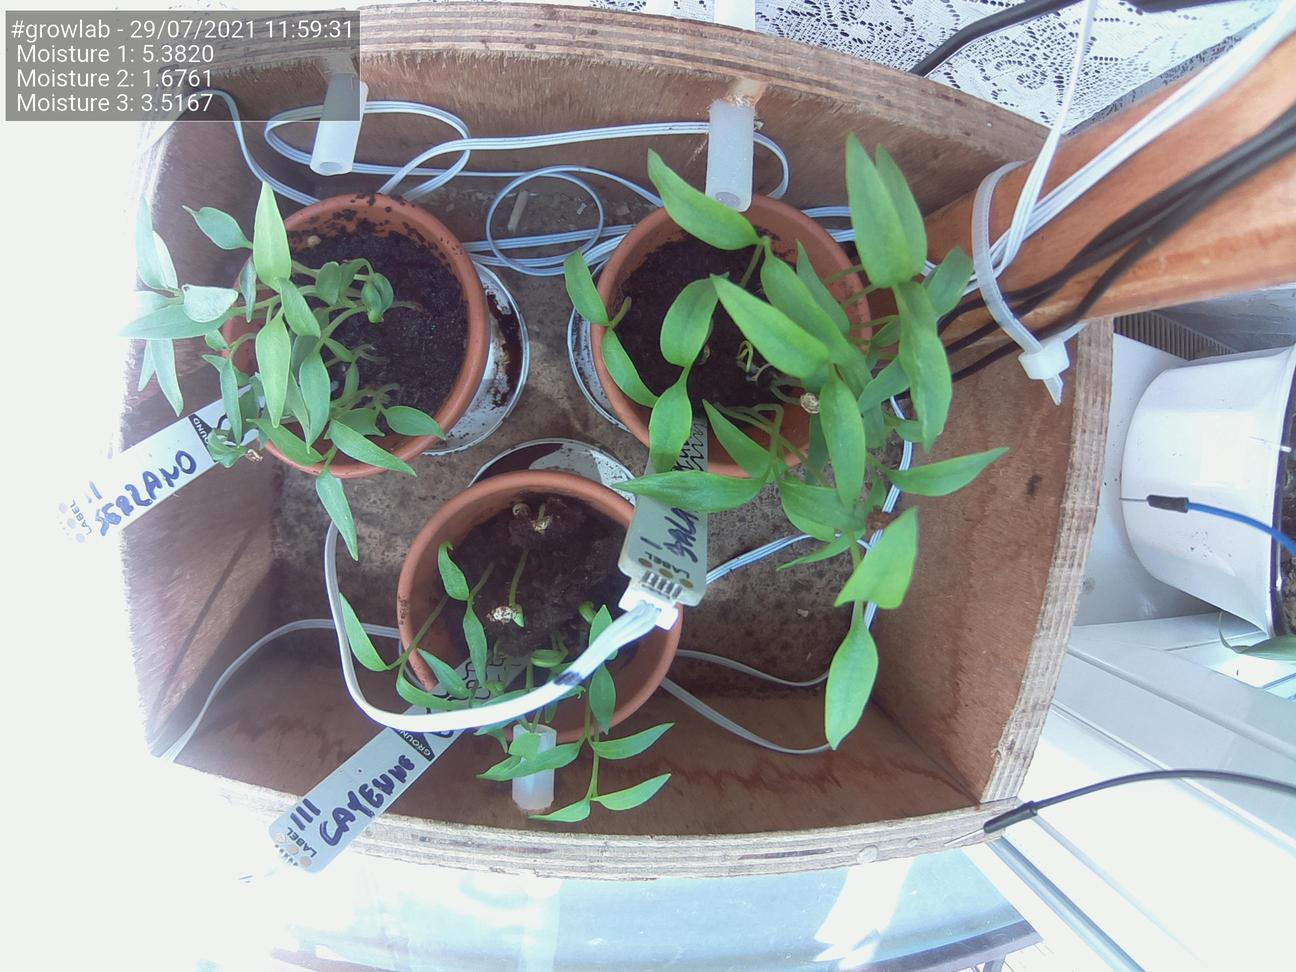
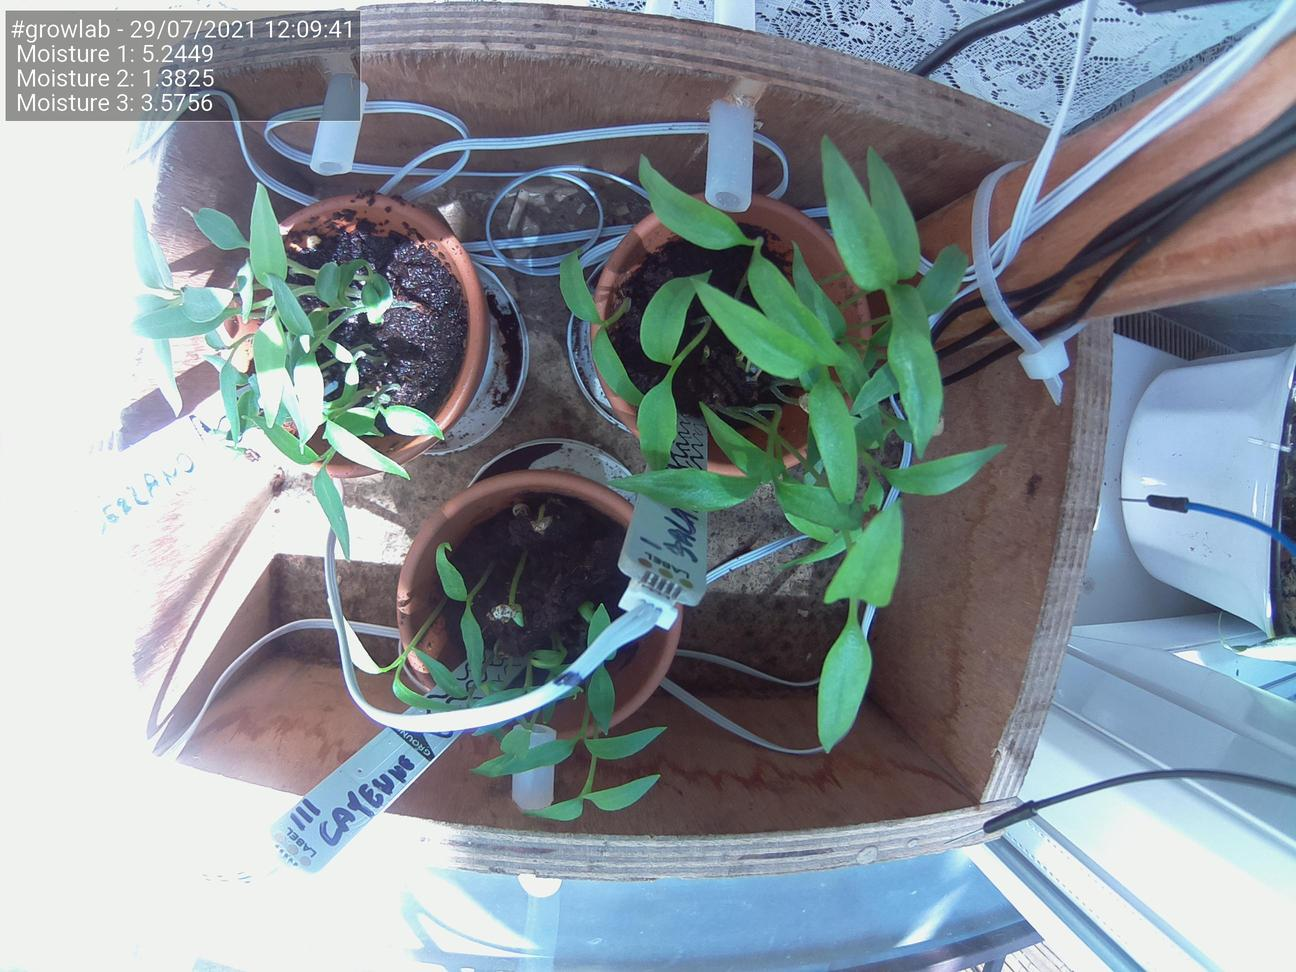
Update images at Thu 29 Jul 12:09:47 BST 2021

diff --git a/docs/index.html b/docs/index.html
@@ -51,25 +51,25 @@
                                 <td>Date</td>
                                 <td>29/07/2021</td>
                                 <td>Time</td>
-                                <td>11:59:31</td>
+                                <td>12:09:41</td>
                             </tr>
                             <tr>
                                 <td>Temperature</td>
                                 <td>N/A</td>
                                 <td>Moisture 1</td>
-                                <td>5.3820</td>
+                                <td>5.2449</td>
                             </tr>
                             <tr>
                                 <td>Humidity</td>
                                 <td>N/A</td>
                                 <td>Moisture 2</td>
-                                <td>1.6761</td>
+                                <td>1.3825</td>
                             </tr>
                             <tr>
                                 <td>Pressure</td>
                                 <td>N/A</td>
                                 <td>Moisture 3</td>
-                                <td>3.5167</td>
+                                <td>3.5756</td>
                             </tr>
                         </tbody>
                     </table>
@@ -77,7 +77,7 @@
 
                 <h5>Latest image</h5>
                 <div style="width: 85%;">
-                            <img class="figure-img img-fluid rounded" src="./preview.jpg?uid=1627556376.8745465">
+                            <img class="figure-img img-fluid rounded" src="./preview.jpg?uid=1627556986.9072323">
                 </div>
             </div>
         </div>
